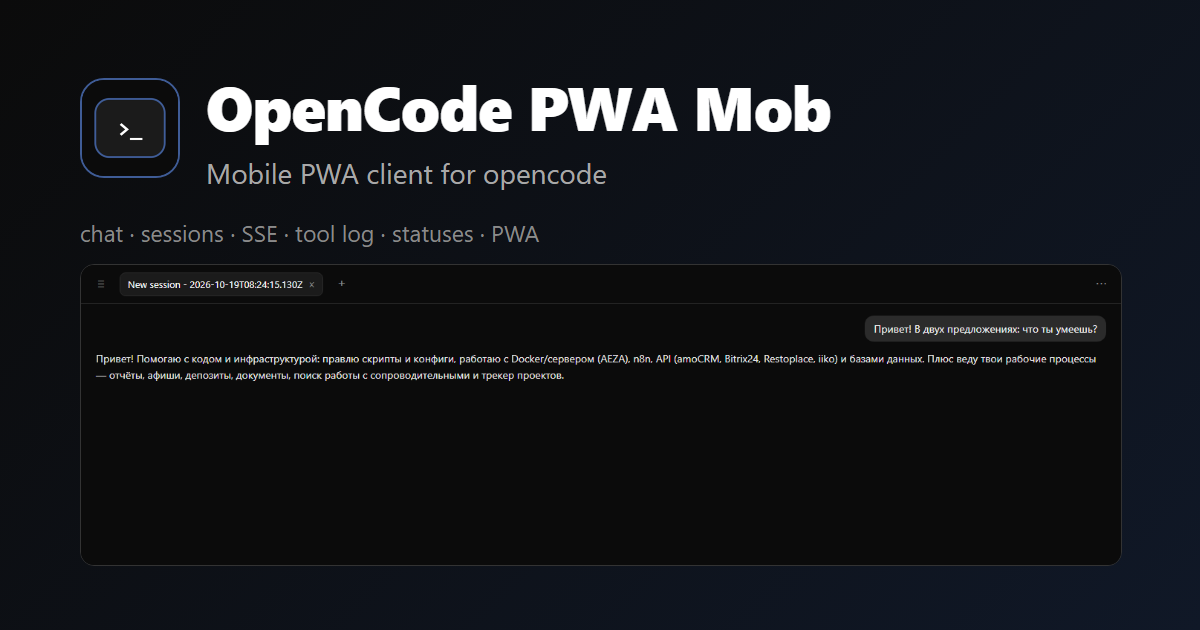
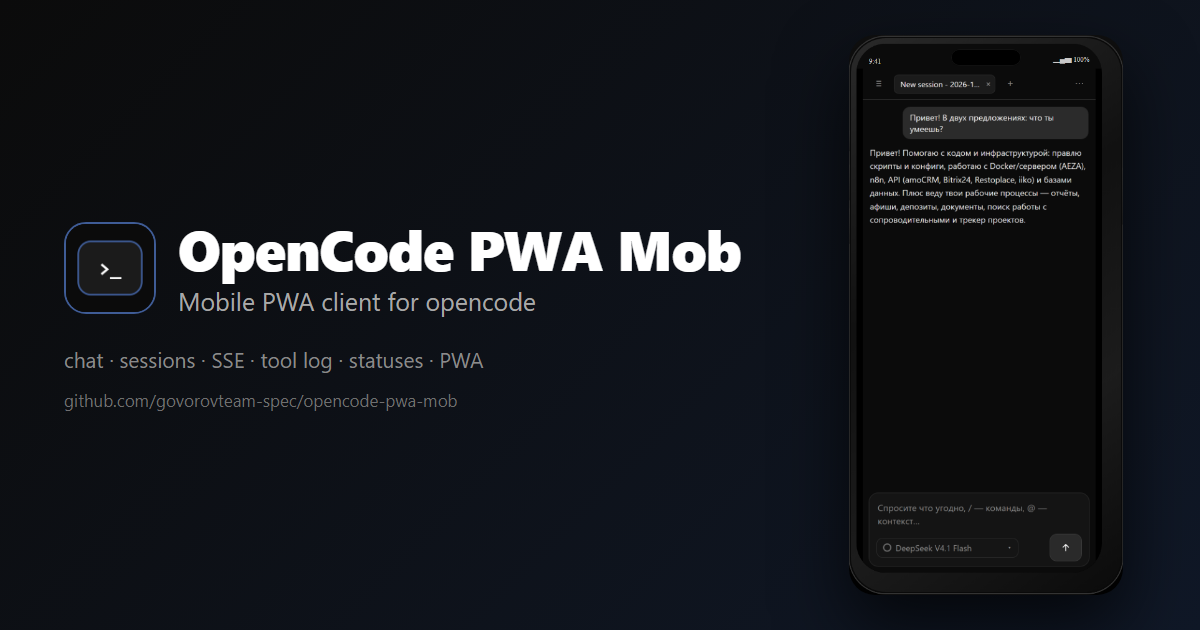
docs: mobile-only screenshots (phone frame), update social preview, add Habr draft

diff --git a/docs/phone-frame.html b/docs/phone-frame.html
@@ -1,0 +1,32 @@
+<!doctype html>
+<html lang="ru">
+<head>
+<meta charset="utf-8">
+<title>OpenCode PWA Mob — phone</title>
+<style>
+  html,body{height:100%}
+  body{margin:0;display:flex;align-items:center;justify-content:center;min-height:100vh;
+    background:radial-gradient(900px 700px at 50% 15%,#161616 0%,#0a0a0a 55%,#030303 100%)}
+  .phone{position:relative;width:416px;height:872px;padding:11px;border-radius:58px;
+    background:linear-gradient(145deg,#2a2a2a,#111 40%,#1c1c1c 70%,#0b0b0b);
+    box-shadow:0 0 0 2px #333, 0 40px 100px rgba(0,0,0,.85), inset 0 0 0 2px #0a0a0a}
+  .phone:before{content:'';position:absolute;left:50%;top:20px;transform:translateX(-50%);
+    width:112px;height:26px;background:#000;border-radius:18px;z-index:6;box-shadow:inset 0 0 0 1px #151515}
+  .screen{width:394px;height:850px;border-radius:47px;overflow:hidden;background:#000;position:relative;
+    box-shadow:inset 0 0 0 1px #222;display:flex;flex-direction:column}
+  .status{height:40px;flex:0 0 auto;background:#0b0b0b;display:flex;align-items:flex-end;justify-content:space-between;padding:0 20px 6px;font-size:11px;color:#c9c9c9;box-sizing:border-box}
+  .screen img{width:100%;height:810px;display:block;object-fit:contain;object-position:top;background:#000}
+  .btn{position:absolute;width:3px;background:linear-gradient(#3a3a3a,#222);border-radius:3px}
+  .b1{left:-3px;top:150px;height:34px}
+  .b2{left:-3px;top:205px;height:58px}
+  .b3{left:-3px;top:275px;height:58px}
+  .b4{right:-3px;top:210px;height:92px}
+</style>
+</head>
+<body>
+  <div class="phone">
+    <div class="btn b1"></div><div class="btn b2"></div><div class="btn b3"></div><div class="btn b4"></div>
+    <div class="screen"><div class="status"><span>9:41</span><span>▂▄▆ 100%</span></div><img src="screenshot-mobile.png" alt="OpenCode PWA Mob"></div>
+  </div>
+</body>
+</html>

diff --git a/docs/HABR.md b/docs/HABR.md
@@ -1,0 +1,233 @@
+# OpenCode на телефоне: мобильный PWA-клиент к терминальному AI-агенту
+
+*Материал подготовлен с помощью AI-ассистента OpenCode; факты, код и выводы проверены автором.*
+
+Я каждый день работаю с [opencode](https://opencode.ai) — терминальным AI-агентом, который правит код, запускает команды и держит контекст проекта. На ПК всё отлично: TUI, хоткеи, привычный workflow. Проблема начинается, когда нужно отойти от ноутбука: посмотреть, что делает агент, ответить на вопрос или запустить задачу с телефона.
+
+У opencode есть официальный веб-интерфейс (`opencode web`), и это важно сказать сразу. Но он десктопный и проектный: сначала нужно добавить папку проекта, потом создать сессию. Для сценария «достал телефон, открыл чат, написал» это лишние шаги. Плюс мне хотелось видеть привычный лог инструментов и статусы, а не абстрактный спиннер.
+
+Так появился **OpenCode PWA Mob** — тонкий PWA-клиент к `opencode serve`. В этой статье — архитектура, код, грабли и честное сравнение с официальным UI.
+
+Репозиторий: https://github.com/govorovteam-spec/opencode-pwa-mob
+
+---
+
+## Что уже есть у opencode
+
+opencode умеет запускаться как сервер:
+
+```bash
+OPENCODE_SERVER_PASSWORD=secret opencode serve --port 8888 --hostname 0.0.0.0
+```
+
+Сервер отдаёт HTTP API: сессии, сообщения, модели, события. Официальный `opencode web` — это фронтенд к этому же API. Мой проект — альтернативный фронтенд: мобильный, компактный и без обязательного выбора проекта.
+
+Что важно: **своей базы у клиента нет**. Все сессии и сообщения живут в opencode. Клиент — это прокси и SPA.
+
+## Архитектура
+
+```
+Телефон/браузер (PWA)
+        │  HTTP + SSE
+        ▼
+   server.mjs
+   (Basic auth, прокси, стриминг)
+        │  HTTP API
+        ▼
+   opencode serve :8888
+        │
+        ├── DeepSeek / OpenAI / Anthropic / Ollama
+        └── инструменты: bash, edit, read, grep…
+```
+
+Три задачи `server.mjs`:
+
+1. отдать статику (один HTML);
+2. закрыть всё Basic-авторизацией;
+3. проксировать API и SSE, чтобы браузер не общался с opencode напрямую.
+
+## Прокси: 60 строк
+
+Вся связь с opencode — одна функция:
+
+```js
+const OC_URL = process.env.OPENCODE_URL || 'http://127.0.0.1:8888';
+const OC_AUTH = 'Basic ' + Buffer.from('opencode:' + process.env.OPENCODE_PASSWORD).toString('base64');
+
+async function oc(method, path, body) {
+  const r = await fetch(OC_URL + path, {
+    method,
+    headers: { 'Authorization': OC_AUTH, 'Content-Type': 'application/json' },
+    body: body ? JSON.stringify(body) : undefined
+  });
+  return { status: r.status, text: await r.text() };
+}
+```
+
+Дальше — обычные ручки: `POST /api/send`, `GET /api/messages`, `POST /api/stop`, `GET /api/models`, `GET /api/menu`. `send` создаёт сессию, если её нет, ставит модель и отправляет prompt:
+
+```js
+if (!sid) {
+  const c = await oc('POST', '/api/session', { title: 'Chat' });
+  sid = JSON.parse(c.text).data.id;
+}
+await oc('POST', `/api/session/${sid}/model`, { model: b.model });
+await oc('POST', `/api/session/${sid}/prompt`, { prompt: { text: b.text } });
+```
+
+## Стриминг без велосипеда
+
+opencode отдаёт события через SSE. Прокси просто перекладывает поток:
+
+```js
+res.writeHead(200, {
+  'Content-Type': 'text/event-stream; charset=utf-8',
+  'Cache-Control': 'no-cache, no-transform',
+  'Connection': 'keep-alive',
+  'X-Accel-Buffering': 'no'
+});
+const r = await fetch(`${OC_URL}/api/session/${sid}/event`, {
+  headers: { 'Authorization': OC_AUTH, 'Accept': 'text/event-stream' }
+});
+const reader = r.body.getReader();
+while (true) {
+  const { done, value } = await reader.read();
+  if (done) break;
+  res.write(Buffer.from(value));
+}
+```
+
+На клиенте — обычный `EventSource`. По событиям обновляю статус и подтягиваю сообщения:
+
+```js
+if (/reasoning\.(started|delta)/.test(t)) setStatus('Размышление');
+else if (/tool\.(called|progress)/.test(t)) setStatus('Выполнение');
+else if (/text\.(started|delta)/.test(t)) setStatus('Ответ');
+else if (/compaction\.(started|delta)/.test(t)) setStatus('Сжатие чата');
+```
+
+## Лог инструментов, а не спиннер
+
+Мне важно видеть, что именно делает агент. Сообщения opencode приходят частями: текст, reasoning и `tool`. Из tool-частей собираю компактные строки:
+
+```js
+function verb(n) {
+  return ({
+    bash: 'Оболочка', write: 'Написать', edit: 'Редактировать',
+    read: 'Читать', grep: 'Поиск', glob: 'Поиск',
+    webfetch: 'Открыть', task: 'Задача'
+  })[n] || n;
+}
+```
+
+Для `edit`/`write` считаю diff по входным строкам и показываю `+N −M`:
+
+```js
+if (n === 'edit') {
+  const a = String(inp.newString || '').split('\n').length;
+  const r = String(inp.oldString || '').split('\n').length;
+  return `<span class="a">+${a}</span> <span class="d">−${r}</span>`;
+}
+```
+
+Получается как в TUI: «Оболочка `npm test`», «Редактировать `server.mjs` +12 −3».
+
+## PWA: установка на телефон
+
+Клиент — один HTML плюс манифест и service worker. Манифест:
+
+```json
+{
+  "name": "OpenCode PWA Mob",
+  "short_name": "OpenCode",
+  "start_url": "/",
+  "display": "standalone",
+  "background_color": "#0b0b0b",
+  "theme_color": "#0b0b0b",
+  "icons": [
+    { "src": "/icon-192.png", "sizes": "192x192", "type": "image/png" },
+    { "src": "/icon-512.png", "sizes": "512x512", "type": "image/png" }
+  ]
+}
+```
+
+Service worker кэширует оболочку, но **не трогает `/api/`** — иначе стриминг и сессии сломаются:
+
+```js
+if (u.pathname.startsWith('/api/')) return;
+```
+
+Установка работает по HTTPS (или localhost): «Добавить на главный экран» → приложение открывается без адресной строки.
+
+## Docker: одна команда
+
+В репозитории — compose с официальным образом opencode и клиентом:
+
+```yaml
+services:
+  opencode:
+    image: ghcr.io/anomalyco/opencode:latest
+    command: ["serve", "--port", "8888", "--hostname", "0.0.0.0"]
+    environment:
+      OPENCODE_SERVER_PASSWORD: ${OPENCODE_PASSWORD}
+
+  web:
+    build: .
+    ports: ["3000:3000"]
+    environment:
+      OPENCODE_URL: http://opencode:8888
+      OPENCODE_PASSWORD: ${OPENCODE_PASSWORD}
+      WEB_USER: ${WEB_USER:-admin}
+      WEB_PASSWORD: ${WEB_PASSWORD}
+```
+
+`opencode serve` наружу не публикуется — только клиент. Для HTTPS достаточно Caddy:
+
+```caddy
+chat.example.com {
+    reverse_proxy 127.0.0.1:3000
+}
+```
+
+## Что получилось
+
+![Мобильный](docs/screenshot-mobile-frame.png)
+
+Что умеет:
+
+- чат и продолжение сессий;
+- стриминг ответа;
+- лог инструментов и diff;
+- статусы: размышление, выполнение, ответ, сжатие чата, ошибка, остановлено;
+- выбор модели и стоп;
+- `/` — команды и навыки opencode;
+- PWA на телефон.
+
+## Грабли
+
+**SSE и reverse-proxy.** nginx по умолчанию буферизует ответы — стриминг «залипает». Лечится `proxy_buffering off;` и заголовком `X-Accel-Buffering: no`.
+
+**PWA и HTTPS.** По `http://IP:3000` установка не предложится. Нужен HTTPS или localhost.
+
+**Официальный UI и проекты.** `opencode web` сначала просит добавить проект (папку). Мой клиент создаёт сессию напрямую — для сценария «просто чат» это удобнее.
+
+**Версии API.** opencode развивается, API может меняться. Клиент — тонкий; при изменениях правится в одном месте.
+
+**Безопасность.** `opencode serve` нельзя выставлять в интернет. Клиент закрыт Basic auth, но для публичного доступа обязателен HTTPS и нормальный reverse-proxy.
+
+## Зачем свой клиент, если есть официальный
+
+Честный ответ: если нужен полный веб-интерфейс — берите `opencode web`. Свой клиент имеет смысл, когда нужно:
+
+- мобильный сценарий: PWA, крупные кнопки, компактный чат;
+- встроить агента в свой продукт (у меня он живёт вкладкой в трекере);
+- свой UX: лог инструментов, статусы, стоп, минимум лишнего;
+- подключиться к удалённому `opencode serve` без выставления полного UI.
+
+## Ссылки
+
+- Репозиторий: https://github.com/govorovteam-spec/opencode-pwa-mob
+- Установка: https://github.com/govorovteam-spec/opencode-pwa-mob/blob/main/docs/INSTALL.md
+- opencode: https://opencode.ai
+
+Лицензия — MIT. Если пригодится — ставьте звезду и пишите issue.

diff --git a/README.md b/README.md
@@ -11,15 +11,9 @@ opencode is a terminal AI agent. This project is a compact browser UI for it: in
 
 > Коротко: opencode — это CLI/TUI. Здесь — компактный PWA-клиент к `opencode serve`: чат, сессии, стриминг, лог инструментов, статусы, выбор модели и стоп. Заточен под телефон, но работает и на ПК.
 
-## Скриншоты
+## Скриншот
 
-Десктоп:
-
-![Desktop](docs/screenshot-desktop.png)
-
-Мобильный:
-
-<img src="docs/screenshot-mobile.png" width="320" alt="Mobile">
+<img src="docs/screenshot-mobile-frame.png" width="360" alt="OpenCode PWA Mob на телефоне">
 
 ---
 
